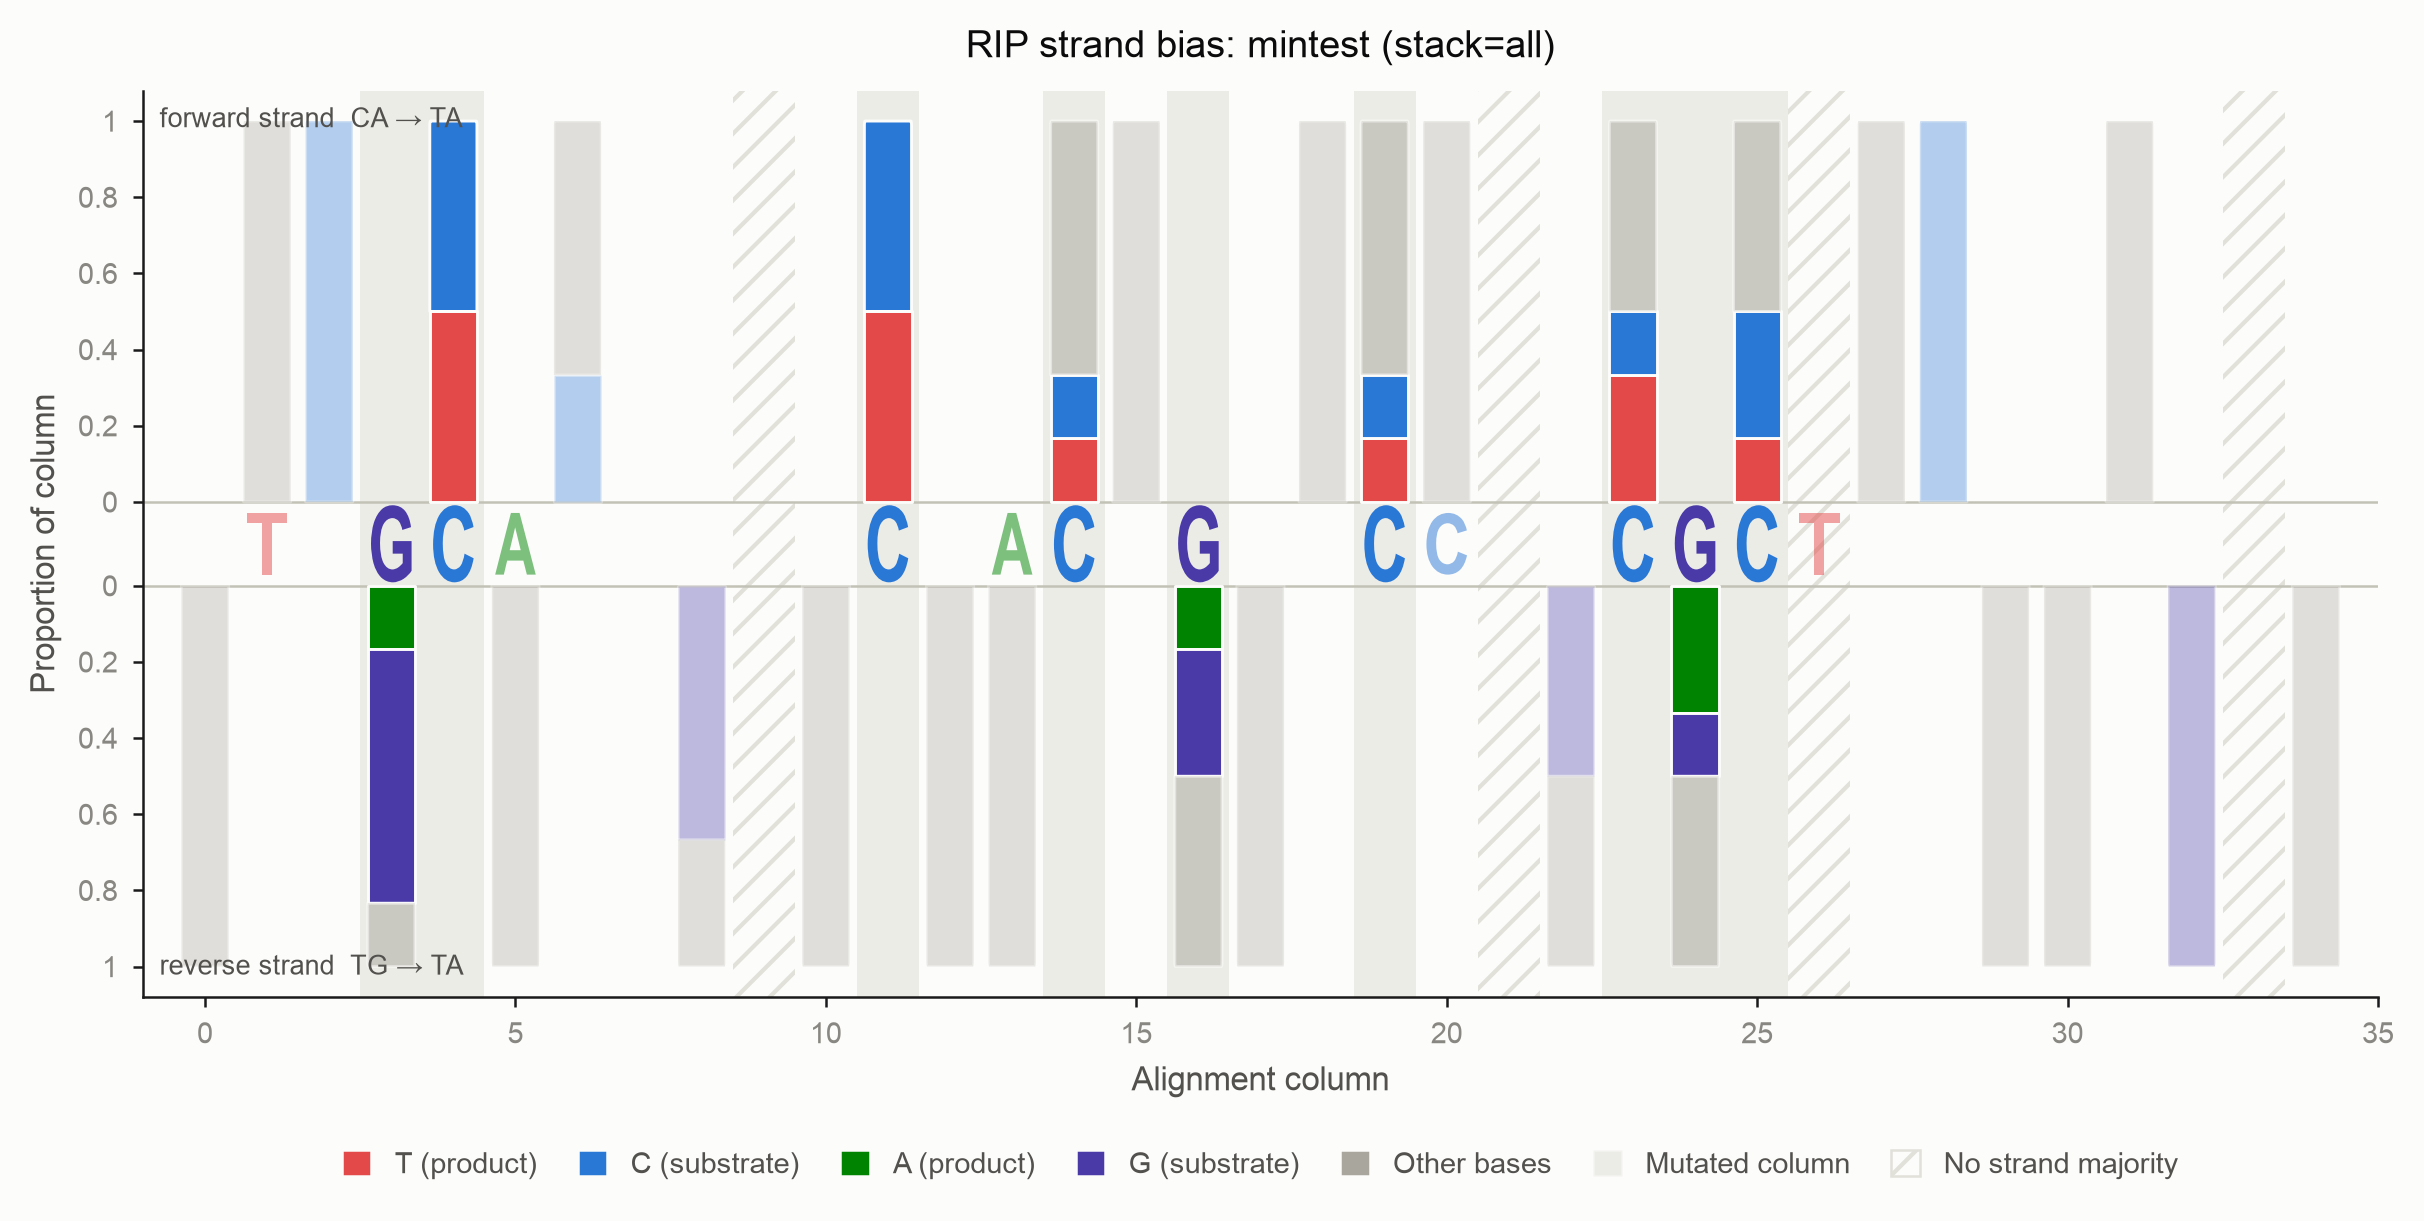
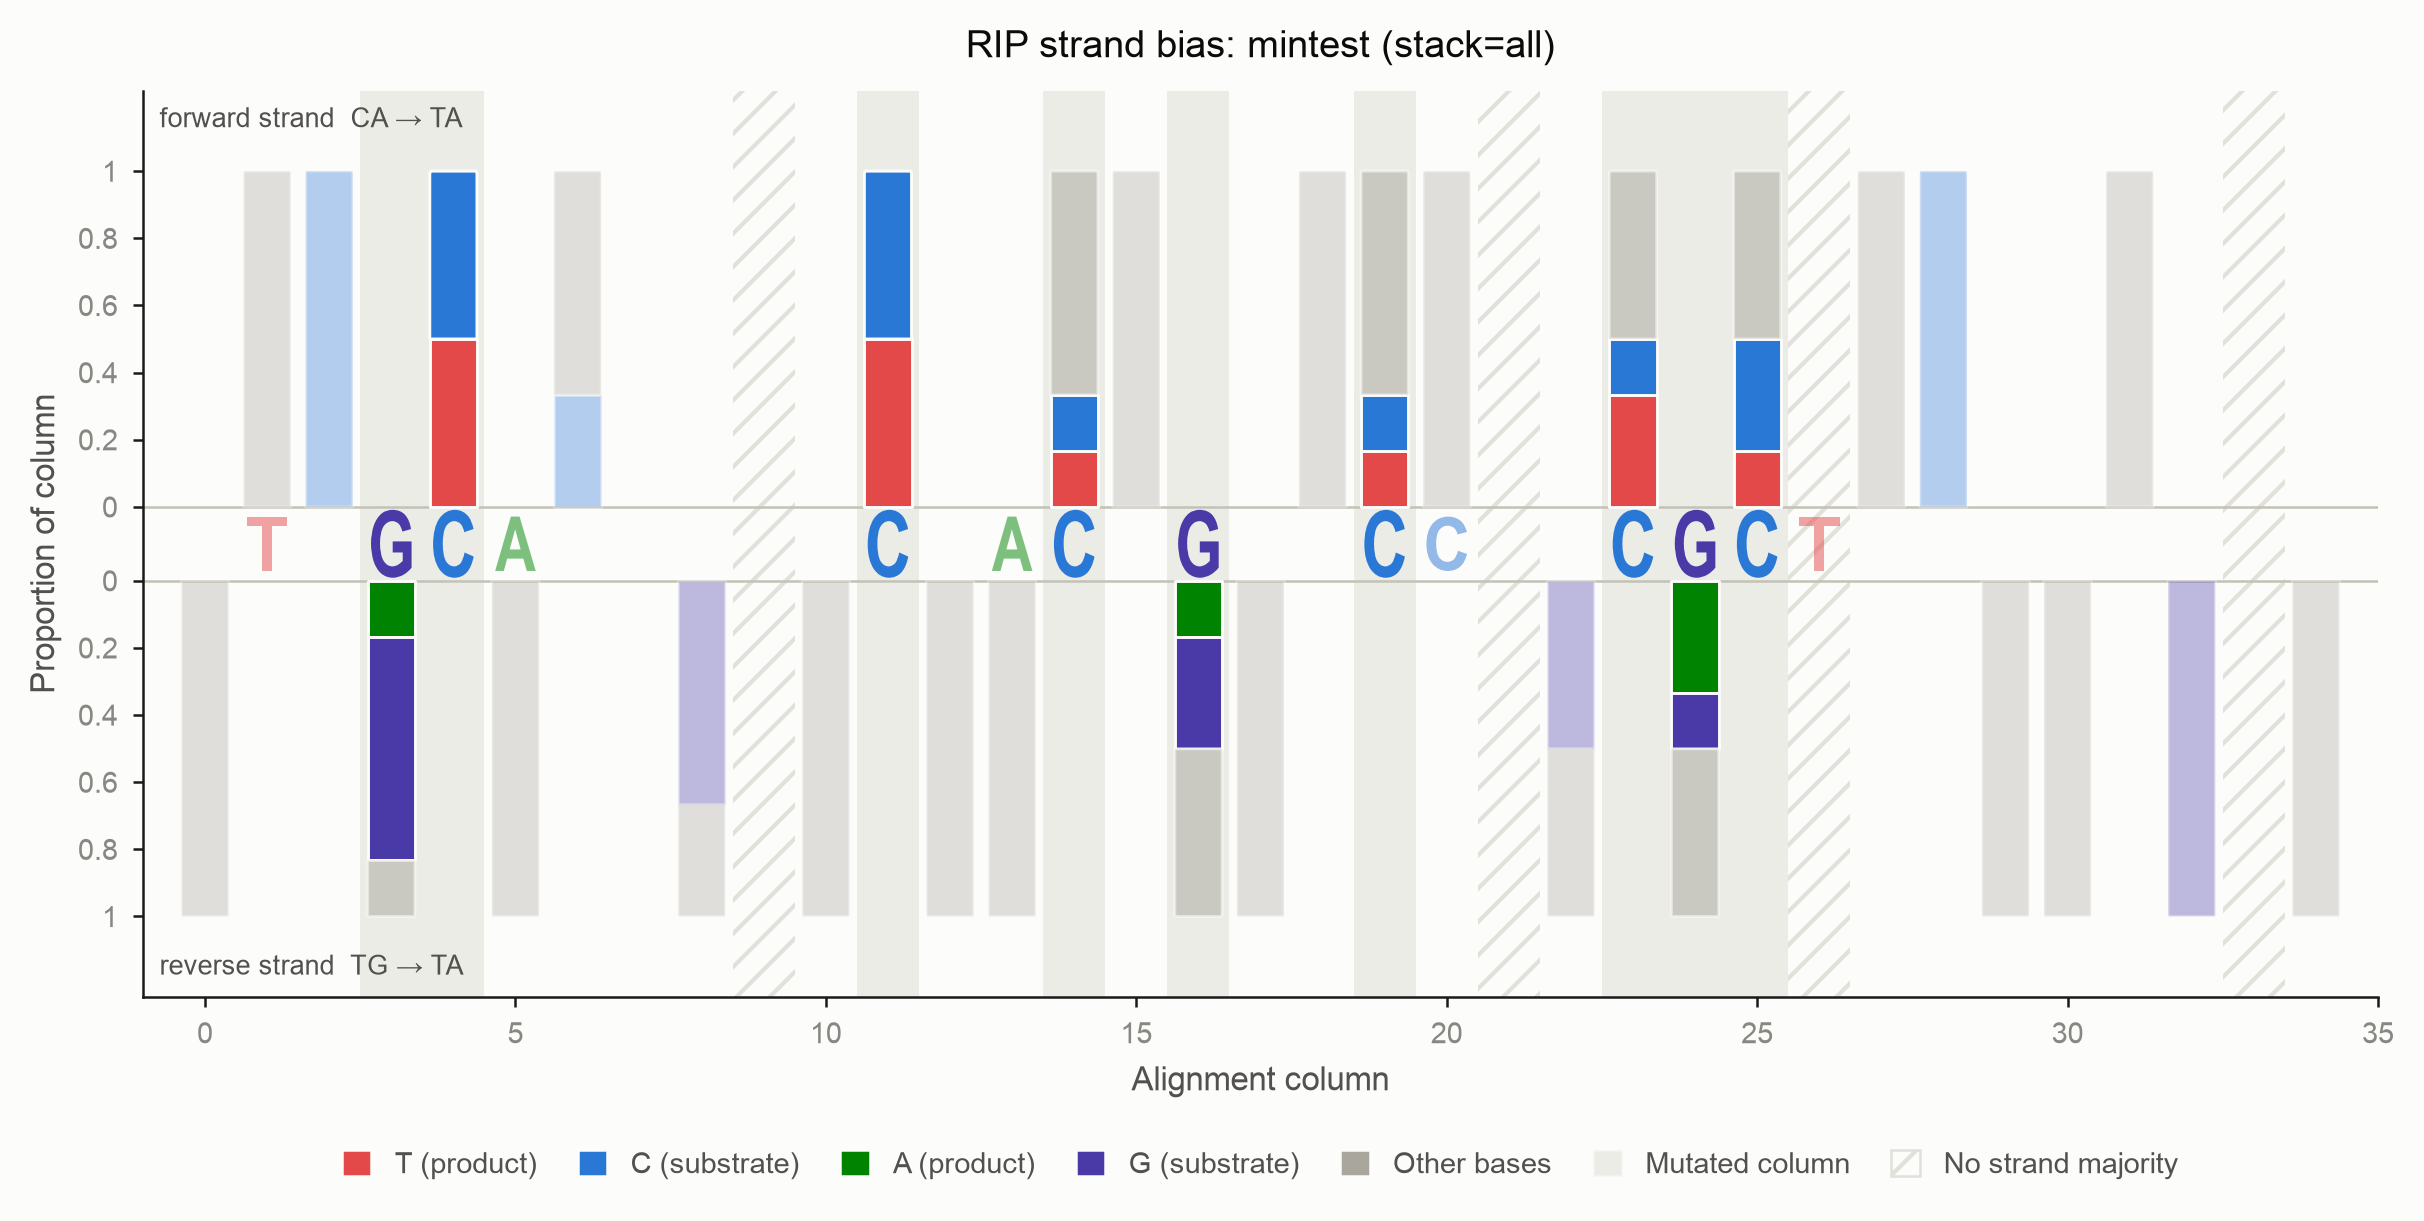
docs: document ancestor reuse + input validation; regen strand-bias figures
- README + CLI docs + mutation-spectra tutorial: --reference-tag / in-MSA
  deRIPseq reuse, --ancestor length validation, and the A/C/G/T/- input
  requirement (IUPAC rejected). Corrected the worked example so the reused
  row id matches derip2's --prefix (default deRIPseq).
- Regenerated strand_bias_{derip,logo,noise}.png so the forward/reverse arm
  labels clear the tallest bars (ARM_LABEL_HEADROOM change). Content identical,
  same dimensions, only added vertical headroom.

diff --git a/docs/tutorials/mutation-spectra.md b/docs/tutorials/mutation-spectra.md
@@ -99,6 +99,43 @@ result = d.calculate_spectra()           # baseline spectra against that ancesto
 result.sbs96                             # (96, n_samples) count matrix
 ```
 
+#### Reusing an ancestor already in your alignment
+
+The plain `derip2` command appends its deRIP'd consensus to the output alignment
+by default, as a row whose id is its `--prefix` (default `deRIPseq`). If you feed
+that alignment straight to `derip2-spectra`, it **detects that row, uses it as the
+ancestor, and excludes it from the counted sequences** — no recomputation, and no
+self-comparison inflating the counts:
+
+```bash
+# 1. deRIP the family with the default prefix; this writes
+#    out/deRIPseq_alignment.fasta with a "deRIPseq" consensus row appended
+derip2 -i family.fasta -d out
+
+# 2. Spectra reuse that row automatically (logged: "Using pre-computed reference
+#    'deRIPseq' from MSA; excluding it from counted sequences")
+derip2-spectra -i out/deRIPseq_alignment.fasta -d out -p family_spectrum
+```
+
+Because the appended row takes `derip2`'s `--prefix`, the spectra default
+`--reference-tag deRIPseq` matches a default `derip2` run. If you deRIP'd with a
+different prefix (or curated the row by hand), name the tag to match — it is an
+exact id match:
+
+```bash
+derip2 -i family.fasta -d out -p family      # row is named "family"
+derip2-spectra -i out/family_alignment.fasta --reference-tag family -d out -p fam_spec
+```
+
+Precedence is explicit: an `--ancestor FILE` always wins over an in-alignment row,
+which in turn wins over recomputing the consensus.
+
+!!! note "Input must be unambiguous DNA"
+    Alignments may contain only `A/C/G/T/-` (upper or lower case — soft-masking is
+    normalised before analysis). Degenerate IUPAC characters (`N`, `R`, `Y`, …)
+    are **rejected with an error** naming the offending character and its location,
+    rather than being silently coerced to gaps as they were previously.
+
 ### Phylogenetic (`--method phylo`)
 
 The rigorous path reconstructs ancestral sequences at every internal node of a tree
@@ -415,7 +452,8 @@ print(res['cosine_similarity'], res['pvalue'], res['cramers_v'])
 | `--partition-by {none,row,clade}` | pool, per-sequence, or per-clade samples |
 | `--groups FILE` | report one spectrum per user-defined group (both methods) |
 | `--root-sensitivity` | report how much polarity depends on the rooting choice |
-| `--ancestor FASTA` | baseline only: call against a supplied ancestor instead of the deRIP consensus |
+| `--ancestor FASTA` | baseline only: call against a supplied ancestor (validated to match the alignment width) instead of the deRIP consensus |
+| `--reference-tag ID` | baseline only: id of an ancestor row already in the alignment to reuse and exclude from counting (default `deRIPseq`) |
 
 ## Decomposing against COSMIC signatures
 

diff --git a/docs/cli-docs/deRIP_cmd_line.md b/docs/cli-docs/deRIP_cmd_line.md
@@ -160,6 +160,38 @@ derip2-spectra -i tests/data/mintest.fa -d results -p family
 Writes `family.SBS96.txt`, `family.SBS192.txt` (SigProfiler-compliant matrices),
 the spectrum/strand-asymmetry/homoplasy plots, and `family_events.tsv`.
 
+By default the baseline reconstructs the deRIP consensus internally and calls
+every sequence against it.
+
+### Reusing a precomputed ancestral reference
+
+If you have already run `derip2` and appended the deRIP'd consensus to your
+alignment, `derip2-spectra` will reuse it instead of recomputing. Any row whose
+id matches `--reference-tag` (default `deRIPseq`) is used as the ancestral
+reference and **excluded from the counted sequences** (a message is logged when
+this happens):
+
+```bash
+# family_with_deRIPseq.fasta already contains a "deRIPseq" row
+derip2-spectra -i family_with_deRIPseq.fasta -d results -p family
+
+# Point at a differently-named reference row
+derip2-spectra -i family.fasta --reference-tag MyAncestor -d results -p family
+```
+
+Alternatively, supply a separate hypothetical ancestor as a single-sequence
+FASTA with `--ancestor`. It must be the same length as the alignment (this is
+validated up front) and takes precedence over any in-alignment reference row:
+
+```bash
+derip2-spectra -i family.fasta --ancestor ancestor.fasta -d results -p family
+```
+
+> **Input must be unambiguous DNA.** Alignments may only contain `A/C/G/T/-`
+> (upper or lower case; soft-masking is normalised). Degenerate IUPAC characters
+> (`N`, `R`, `Y`, …) are rejected with an error naming the offending character
+> and its location, rather than being silently treated as gaps.
+
 ### Phylogenetic (IQ-TREE ancestral reconstruction)
 
 Requires IQ-TREE (`iqtree3`/`iqtree2`/`iqtree`) on `PATH`.

diff --git a/README.md b/README.md
@@ -192,6 +192,14 @@ that counts recurrent deamination correctly.
 # Tree-free baseline (no external tools)
 derip2-spectra -i tests/data/mintest.fa -d results -p family
 
+# Reuse an ancestor you already deRIP'd: if the input alignment already contains
+# a consensus row (default id "deRIPseq", e.g. from `derip2`), it is used as the
+# reference and excluded from the counted sequences instead of being recomputed.
+# Use --reference-tag to point at a differently-named row, or --ancestor FILE to
+# supply a separate single-sequence FASTA (validated to match the alignment width).
+derip2-spectra -i family_with_deRIPseq.fasta -d results -p family
+derip2-spectra -i family.fasta --ancestor ancestor.fasta -d results -p family
+
 # Phylogenetic path (requires IQ-TREE on PATH)
 derip2-spectra -i family.fasta --method phylo -d results -p family
 
@@ -208,7 +216,9 @@ derip2-spectra -i family.fasta --method phylo --tree results/family_masked.treef
 
 Spectra can be reported per sequence, per clade, or per user-defined group
 (`--groups`, e.g. species), and the SigProfiler-compliant matrices can be
-decomposed against reference signatures.
+decomposed against reference signatures. Input alignments must be unambiguous
+DNA (`A/C/G/T/-`, case-insensitive); degenerate IUPAC characters (`N`, `R`, `Y`,
+…) are rejected with a clear error rather than being silently coerced to gaps.
 
 See the [Mutation Spectra tutorial](https://adamtaranto.github.io/deRIP2/tutorials/mutation-spectra/)
 for the full walkthrough, including supplying your own phylogeny and per-group